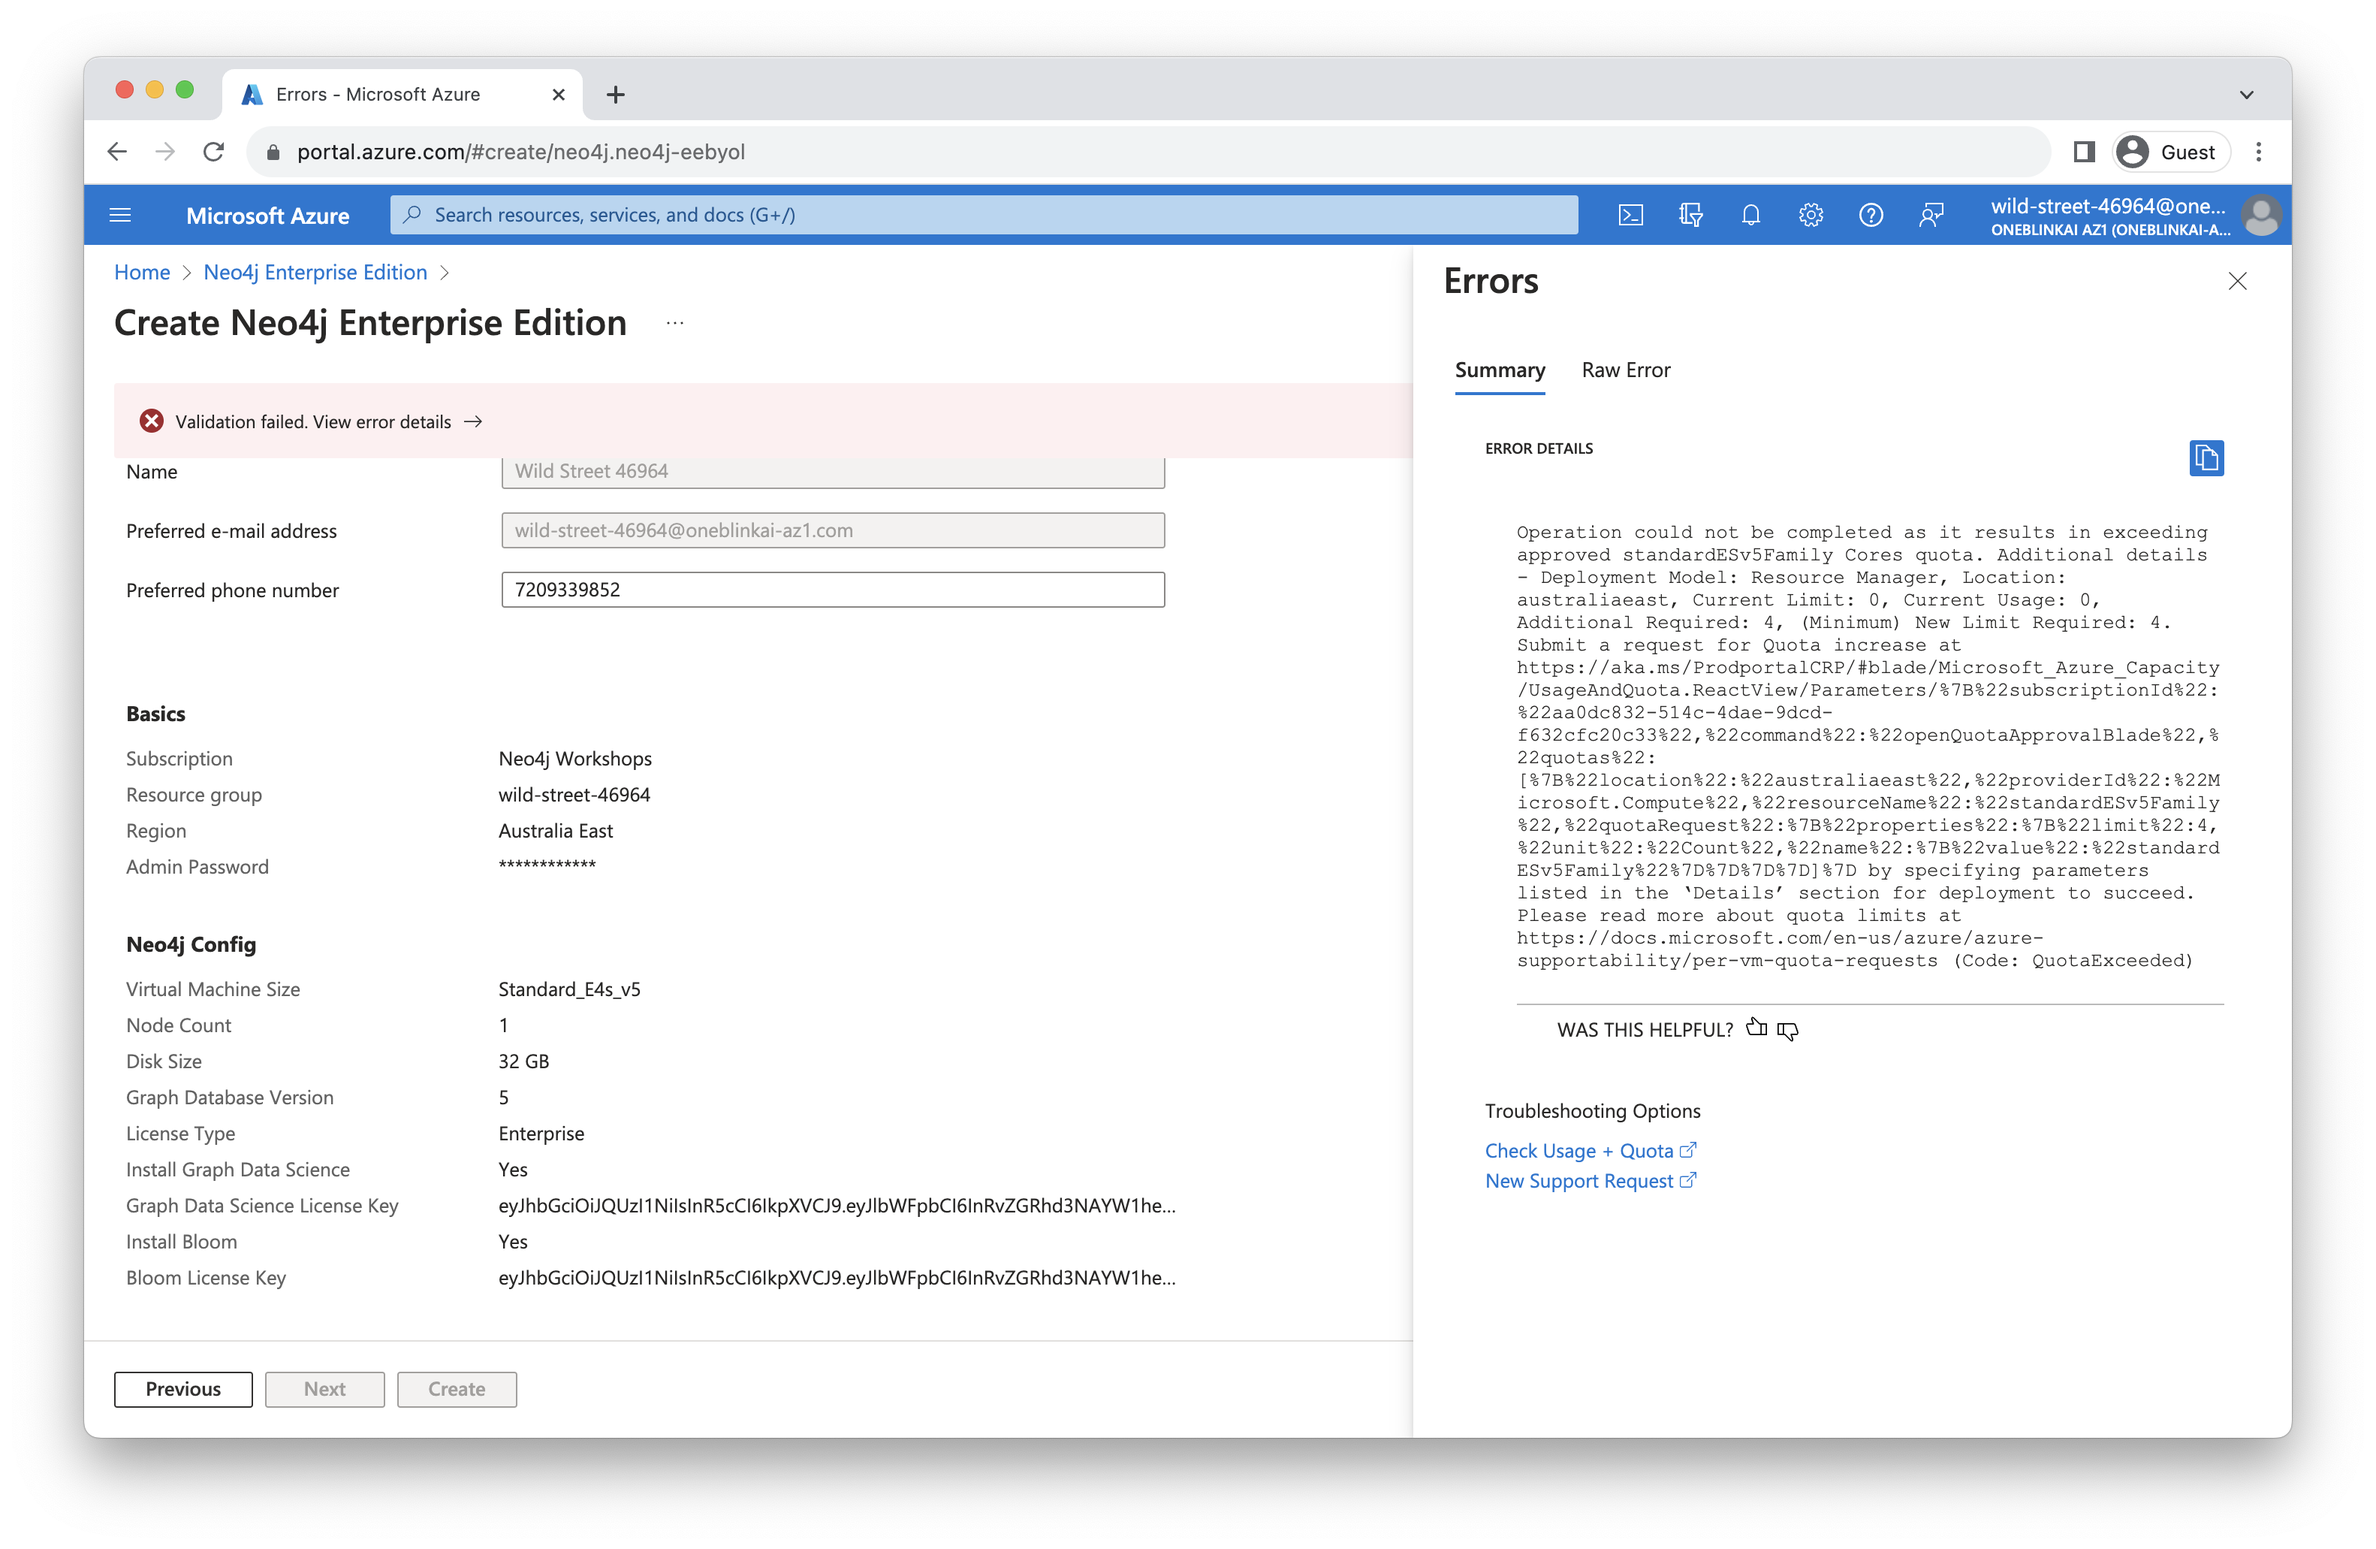
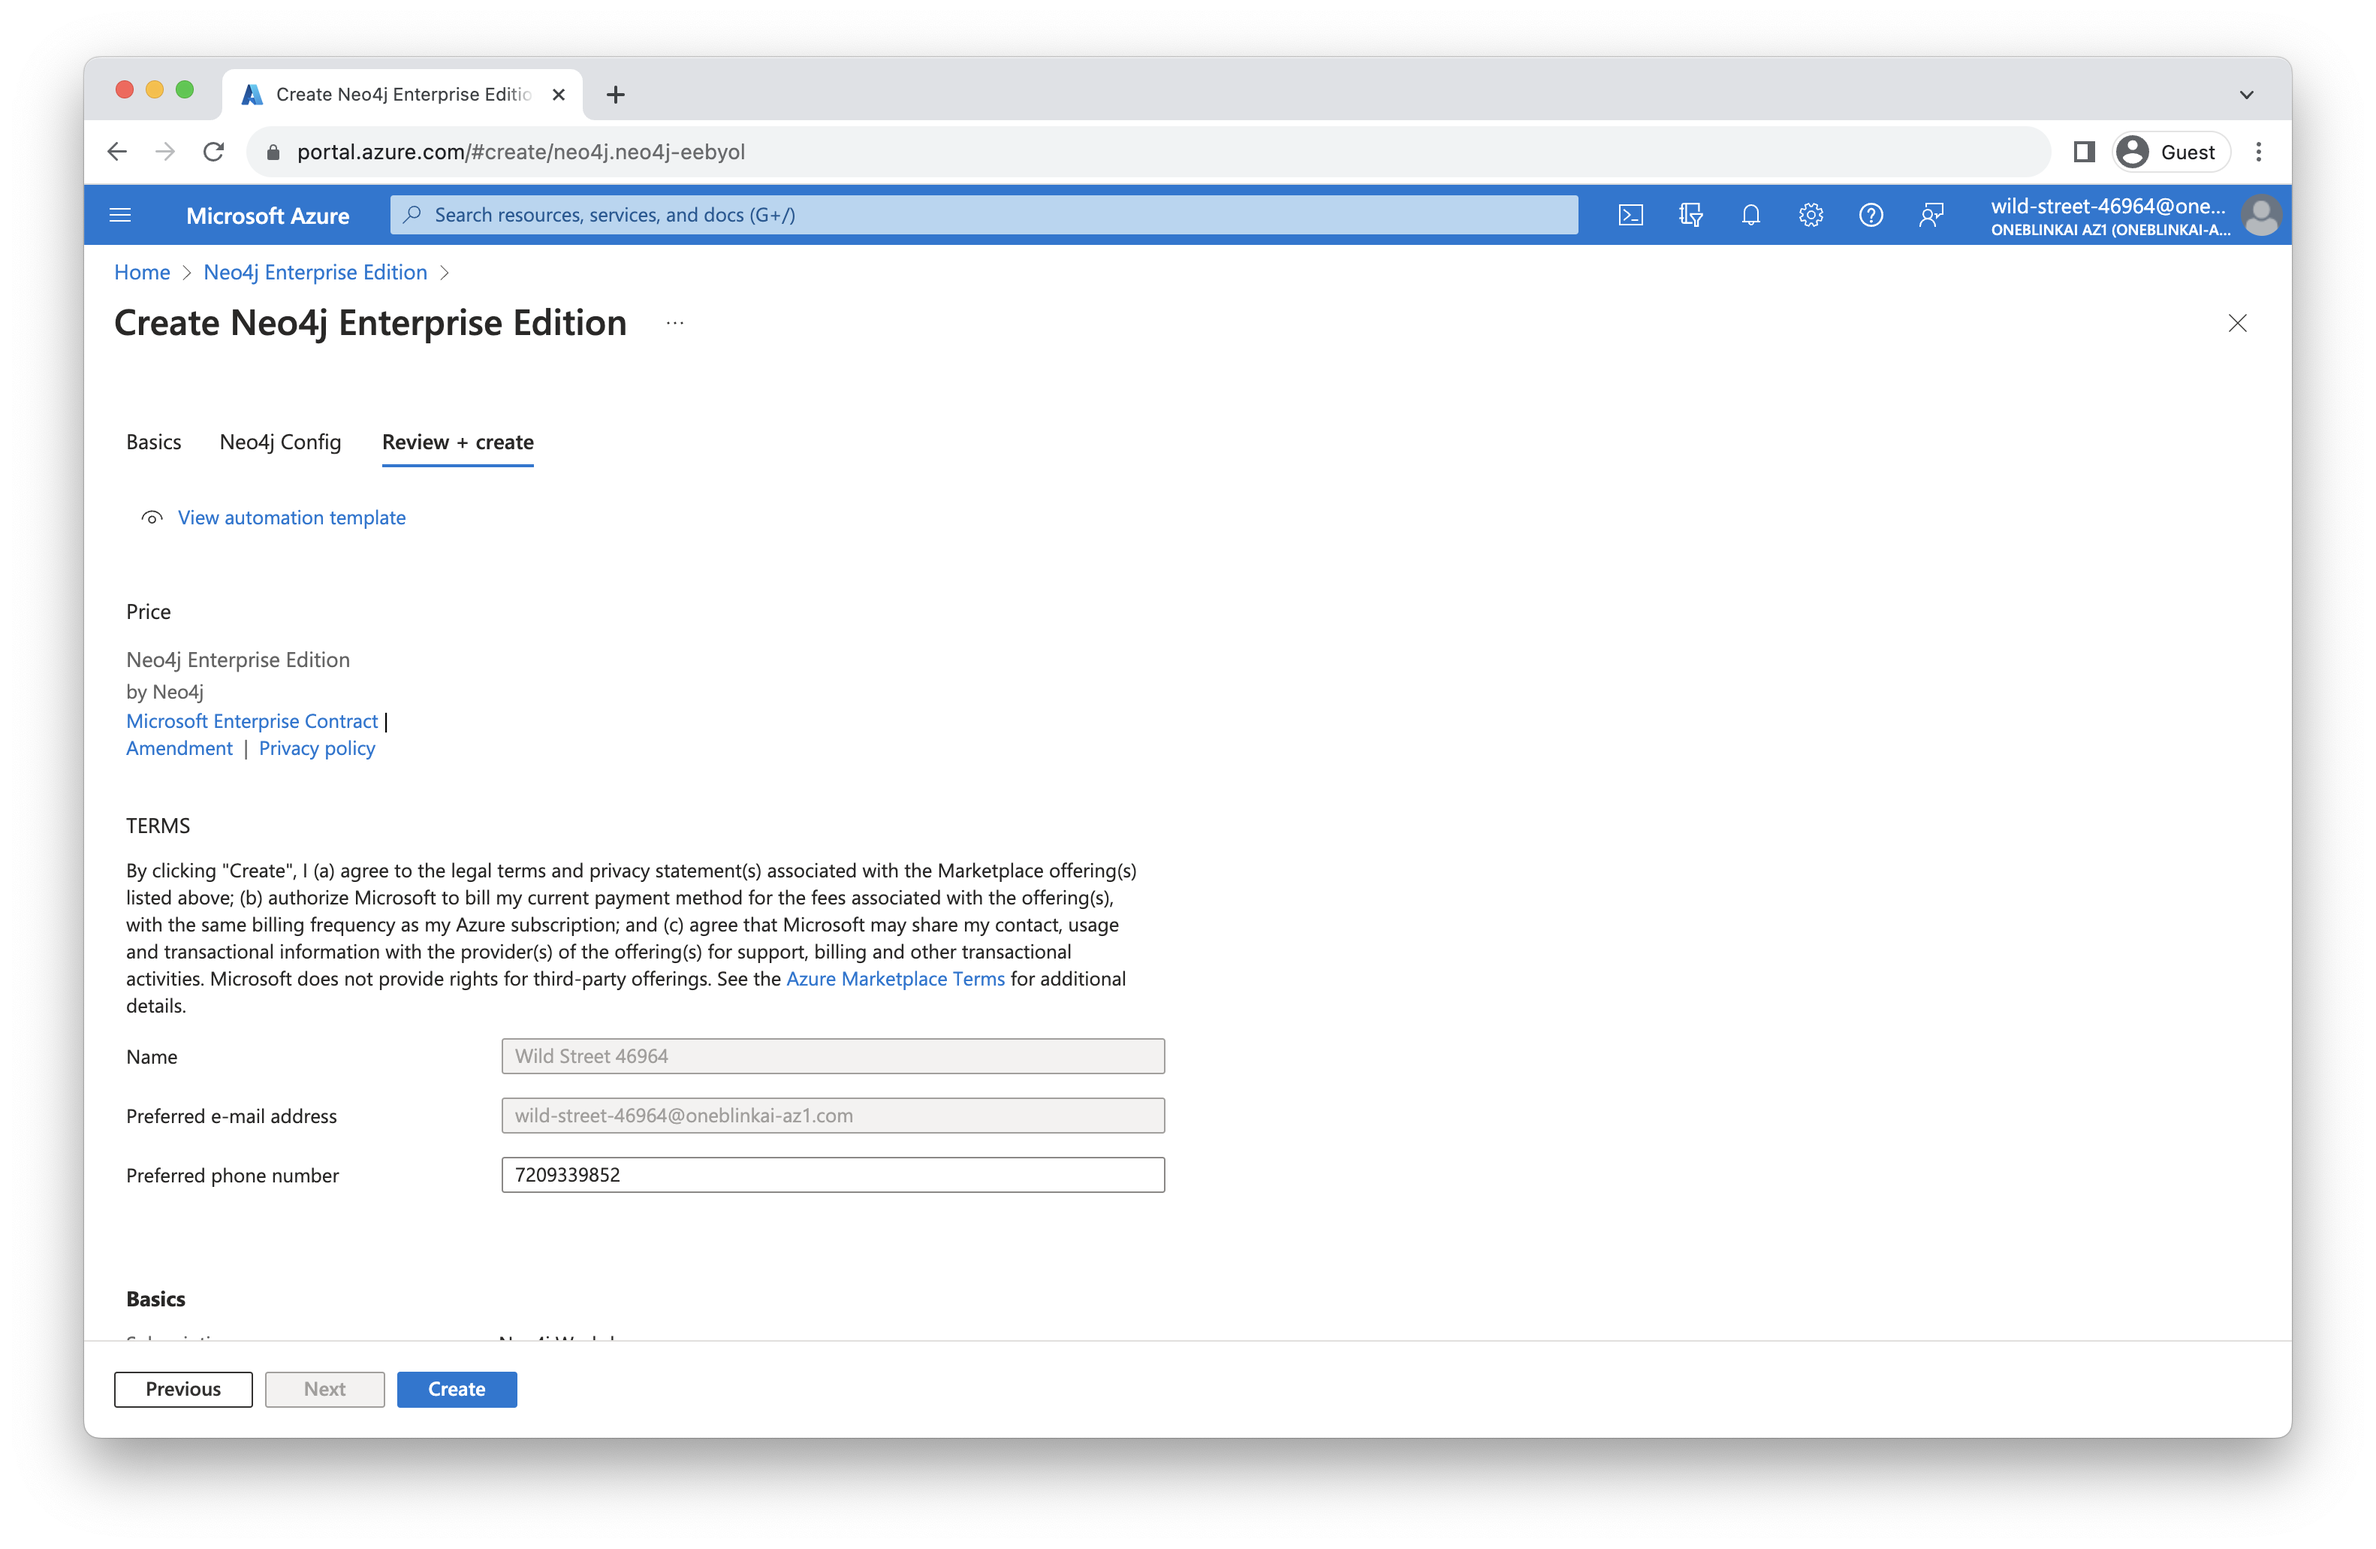
complete lab 1

diff --git a/Lab 1 - Deploy Neo4j/README.md b/Lab 1 - Deploy Neo4j/README.md
@@ -54,7 +54,7 @@ Now click "Next."
 
 In this menu we configure our Neo4j EE deployment.  Enter the following values.
 
-* Virtual Machine Size - 1x Standard E4s v5
+* Virtual Machine Size - 1x Standard E4s v3
 * Node Count - 1.  More nodes would allow for high availability.
 * Disk Size - 32GB
 * Graph Database Version - 5.  The other option is a previous version.
@@ -79,18 +79,20 @@ The Azure portal now validates the config you specificied.  Give that a minute t
 
 ![](images/10.png)
 
-When complete, you'll see a message that validation has succeeded.  Click "Create to deploy."
+When complete, you'll see a final screen.  Click "Create" to start the deployment
 
 ![](images/11.png)
 
-When all done, you'll be taken to the "Deployments" page.
+You'll be redirected to the "Deployment" page in Azure Resource Manager (ARM).  That will take XXX minutes to run.  Azure is deploying VMs, storage and network.  It's then using the Azure agent to install Neo4j on the VMs.
 
 ![](images/12.png)
 
-You will see the nodes, vnet, NSG and deployments under "Deployment Details" section
+When complete, you will see the nodes, vnet, NSG and deployments under "Deployment Details" section
 
-Once the deployment is completed, click on "Outputs" in the left. Copy the URI for the Neo4j Browser.  You're going to need that in the next lab.
+You can click on "Outputs" in the left. That gives the URI for the Neo4j Browser.  You're going to need that in the next lab.
 
 ![](images/13.png)
 
 You're now all ready for the next lab where we're going to start using the Neo4j deployment we just created.
+
+![](images/14.png)
